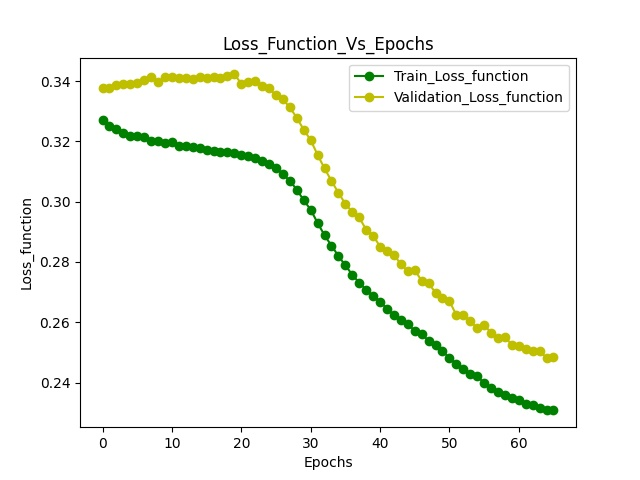
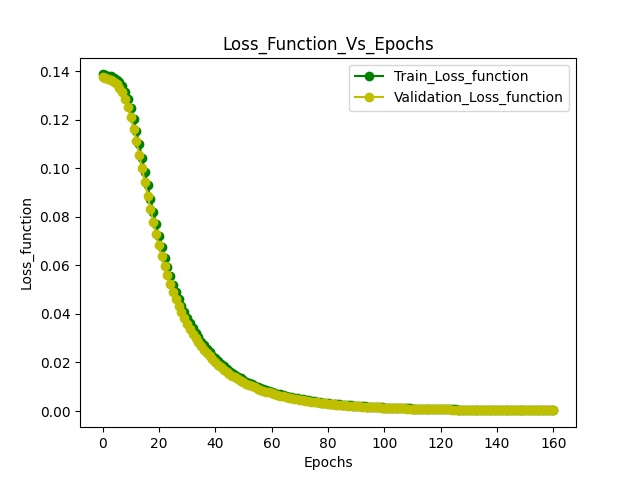
Changes in fixed parameter and Results on those parameters.

diff --git a/main.py b/main.py
@@ -30,12 +30,12 @@ def main(data, output):
 	param_space = {
 		"activation": hp.choice("activation", ["relu", "LeakyReLU", "softmax", "tanh"]),
 		"hidden_units": scope.int(hp.quniform("hidden_units", 10, 100, 1)),
-		"hidden_layers": scope.int(hp.quniform("hidden_layers", 1, 5, 1)),
+		"hidden_layers": scope.int(hp.quniform("hidden_layers", 1, 2, 1)),
 		"epochs": scope.int(hp.quniform("epochs", 20, 200, 1))
 	}
 	objective_function = partial(evaluate_network, x=x, y=y, x_test=x_test, y_test=y_test)
 	trials = Trials()
-	best = fmin(fn=objective_function, space=param_space, algo=tpe.suggest, max_evals=10, trials=trials)
+	best = fmin(fn=objective_function, space=param_space, algo=tpe.suggest, max_evals=20, trials=trials)
 	trail_results = trials.results
 	trail_data = pd.DataFrame([di["trail_data"] for di in trail_results]).sort_values("Test_Accuracy", ascending=False)
 	train_loss_per_epoch = pd.Series(trail_data["train_loss_per_epoch"][0])
@@ -46,6 +46,6 @@ def main(data, output):
 
 
 if __name__ == '__main__':
-	data_file = pd.read_csv("data/BankNote_Authentication.csv")
-	output = "BankNote_Authentication_Results"
+	data_file = pd.read_csv("data/Iris.csv")
+	output = "Iris_Results"
 	main(data_file, output)

diff --git a/pre_process.py b/pre_process.py
@@ -12,7 +12,7 @@ def div_into_x_y(data):
 	# x = data.iloc[:, :-1]
 	# y = data.iloc[:, -1]
 	
-	# Use for Iris Data
+	# # Use for Iris Data
 	x = data.iloc[:, 1:-1]
 	y = data.iloc[:, -1]
 	
